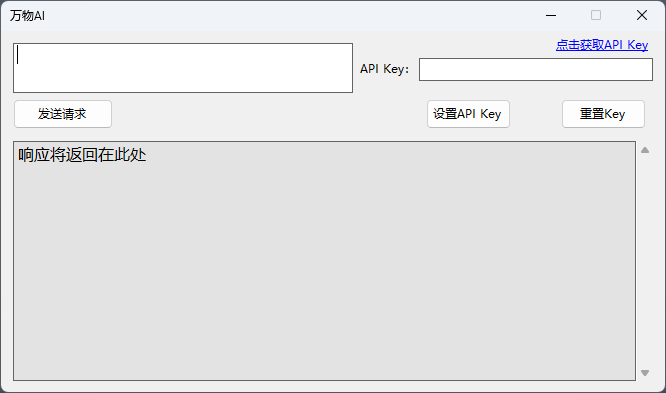
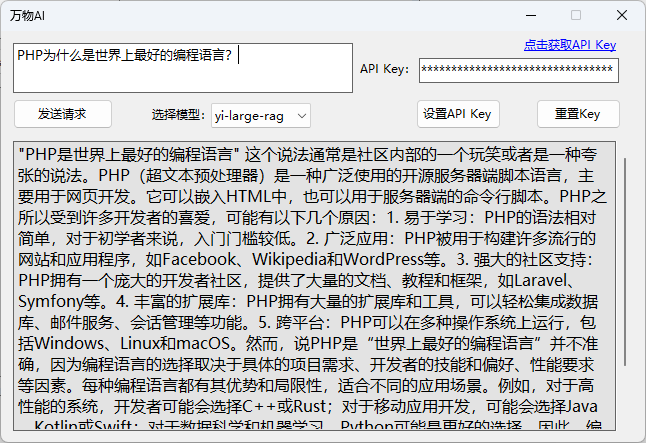
更新了模型选择功能

diff --git a/Wanwu/Form1.Designer.cs b/Wanwu/Form1.Designer.cs
@@ -21,11 +21,13 @@
             this.btnSendRequest = new System.Windows.Forms.Button();
             this.txtShow = new System.Windows.Forms.TextBox();
             this.txtAPIKey = new System.Windows.Forms.TextBox();
-            this.APITitle = new System.Windows.Forms.TextBox();
+            this.APIText = new System.Windows.Forms.TextBox();
             this.btnSettings = new System.Windows.Forms.Button();
             this.btnReset = new System.Windows.Forms.Button();
             this.APIKeylink = new System.Windows.Forms.LinkLabel();
             this.btnCopy = new System.Windows.Forms.Button();
+            this.ModelText = new System.Windows.Forms.TextBox();
+            this.comboModel = new System.Windows.Forms.ComboBox();
             this.SuspendLayout();
             // 
             // txtInput
@@ -60,7 +62,7 @@
             this.txtShow.Name = "txtShow";
             this.txtShow.ReadOnly = true;
             this.txtShow.ScrollBars = System.Windows.Forms.ScrollBars.Vertical;
-            this.txtShow.Size = new System.Drawing.Size(640, 240);
+            this.txtShow.Size = new System.Drawing.Size(620, 290);
             this.txtShow.TabIndex = 2;
             this.txtShow.TabStop = false;
             this.txtShow.Text = "响应将返回在此处";
@@ -68,29 +70,30 @@
             // txtAPIKey
             // 
             this.txtAPIKey.BorderStyle = System.Windows.Forms.BorderStyle.FixedSingle;
-            this.txtAPIKey.Font = new System.Drawing.Font("微软雅黑", 9F, System.Drawing.FontStyle.Regular, System.Drawing.GraphicsUnit.Point, ((byte)(134)));
+            this.txtAPIKey.Font = new System.Drawing.Font("微软雅黑", 10F);
             this.txtAPIKey.Location = new System.Drawing.Point(418, 27);
             this.txtAPIKey.Name = "txtAPIKey";
-            this.txtAPIKey.Size = new System.Drawing.Size(234, 23);
+            this.txtAPIKey.PasswordChar = '*';
+            this.txtAPIKey.Size = new System.Drawing.Size(200, 25);
             this.txtAPIKey.TabIndex = 3;
             // 
-            // APITitle
+            // APIText
             // 
-            this.APITitle.BorderStyle = System.Windows.Forms.BorderStyle.None;
-            this.APITitle.Cursor = System.Windows.Forms.Cursors.IBeam;
-            this.APITitle.Font = new System.Drawing.Font("微软雅黑", 9F, System.Drawing.FontStyle.Regular, System.Drawing.GraphicsUnit.Point, ((byte)(134)));
-            this.APITitle.Location = new System.Drawing.Point(359, 29);
-            this.APITitle.Name = "APITitle";
-            this.APITitle.ReadOnly = true;
-            this.APITitle.Size = new System.Drawing.Size(53, 16);
-            this.APITitle.TabIndex = 4;
-            this.APITitle.TabStop = false;
-            this.APITitle.Text = "API Key：";
+            this.APIText.BorderStyle = System.Windows.Forms.BorderStyle.None;
+            this.APIText.Cursor = System.Windows.Forms.Cursors.IBeam;
+            this.APIText.Font = new System.Drawing.Font("微软雅黑", 9F, System.Drawing.FontStyle.Regular, System.Drawing.GraphicsUnit.Point, ((byte)(134)));
+            this.APIText.Location = new System.Drawing.Point(359, 29);
+            this.APIText.Name = "APIText";
+            this.APIText.ReadOnly = true;
+            this.APIText.Size = new System.Drawing.Size(53, 16);
+            this.APIText.TabIndex = 4;
+            this.APIText.TabStop = false;
+            this.APIText.Text = "API Key：";
             // 
             // btnSettings
             // 
             this.btnSettings.Font = new System.Drawing.Font("微软雅黑", 9F, System.Drawing.FontStyle.Regular, System.Drawing.GraphicsUnit.Point, ((byte)(134)));
-            this.btnSettings.Location = new System.Drawing.Point(425, 68);
+            this.btnSettings.Location = new System.Drawing.Point(415, 68);
             this.btnSettings.Name = "btnSettings";
             this.btnSettings.Size = new System.Drawing.Size(85, 30);
             this.btnSettings.TabIndex = 5;
@@ -101,7 +104,7 @@
             // btnReset
             // 
             this.btnReset.Font = new System.Drawing.Font("微软雅黑", 9F, System.Drawing.FontStyle.Regular, System.Drawing.GraphicsUnit.Point, ((byte)(134)));
-            this.btnReset.Location = new System.Drawing.Point(560, 68);
+            this.btnReset.Location = new System.Drawing.Point(535, 68);
             this.btnReset.Name = "btnReset";
             this.btnReset.Size = new System.Drawing.Size(85, 30);
             this.btnReset.TabIndex = 6;
@@ -113,7 +116,7 @@
             // 
             this.APIKeylink.AutoSize = true;
             this.APIKeylink.Font = new System.Drawing.Font("微软雅黑", 9F, System.Drawing.FontStyle.Regular, System.Drawing.GraphicsUnit.Point, ((byte)(134)));
-            this.APIKeylink.Location = new System.Drawing.Point(552, 5);
+            this.APIKeylink.Location = new System.Drawing.Point(520, 5);
             this.APIKeylink.Name = "APIKeylink";
             this.APIKeylink.Size = new System.Drawing.Size(100, 17);
             this.APIKeylink.TabIndex = 7;
@@ -130,7 +133,7 @@
             this.btnCopy.FlatStyle = System.Windows.Forms.FlatStyle.Flat;
             this.btnCopy.Font = new System.Drawing.Font("微软雅黑", 20F);
             this.btnCopy.ForeColor = System.Drawing.Color.Black;
-            this.btnCopy.Location = new System.Drawing.Point(600, 112);
+            this.btnCopy.Location = new System.Drawing.Point(580, 112);
             this.btnCopy.Name = "btnCopy";
             this.btnCopy.Size = new System.Drawing.Size(32, 32);
             this.btnCopy.TabIndex = 8;
@@ -139,14 +142,45 @@
             this.btnCopy.Visible = false;
             this.btnCopy.Click += new System.EventHandler(this.btnCopy_Click);
             // 
+            // ModelText
+            // 
+            this.ModelText.BorderStyle = System.Windows.Forms.BorderStyle.None;
+            this.ModelText.Cursor = System.Windows.Forms.Cursors.IBeam;
+            this.ModelText.Font = new System.Drawing.Font("微软雅黑", 9F, System.Drawing.FontStyle.Regular, System.Drawing.GraphicsUnit.Point, ((byte)(134)));
+            this.ModelText.Location = new System.Drawing.Point(151, 75);
+            this.ModelText.Name = "ModelText";
+            this.ModelText.ReadOnly = true;
+            this.ModelText.Size = new System.Drawing.Size(53, 16);
+            this.ModelText.TabIndex = 9;
+            this.ModelText.TabStop = false;
+            this.ModelText.Text = "选择模型：";
+            // 
+            // comboModel
+            // 
+            this.comboModel.DropDownStyle = System.Windows.Forms.ComboBoxStyle.DropDownList;
+            this.comboModel.Font = new System.Drawing.Font("微软雅黑", 9F, System.Drawing.FontStyle.Regular, System.Drawing.GraphicsUnit.Point, ((byte)(134)));
+            this.comboModel.FormattingEnabled = true;
+            this.comboModel.Items.AddRange(new object[] {
+            "yi-large",
+            "yi-large-rag"});
+            this.comboModel.Location = new System.Drawing.Point(210, 72);
+            this.comboModel.Name = "comboModel";
+            this.comboModel.Size = new System.Drawing.Size(100, 25);
+            this.comboModel.TabIndex = 10;
+            this.comboModel.TabStop = false;
+            this.comboModel.SelectedIndex = 0;
+            this.comboModel.SelectedIndexChanged += new System.EventHandler(this.comboModle_SelectedIndexChanged);
+            // 
             // Form1
             // 
-            this.ClientSize = new System.Drawing.Size(664, 361);
+            this.ClientSize = new System.Drawing.Size(644, 411);
+            this.Controls.Add(this.comboModel);
+            this.Controls.Add(this.ModelText);
             this.Controls.Add(this.btnCopy);
             this.Controls.Add(this.APIKeylink);
             this.Controls.Add(this.btnReset);
             this.Controls.Add(this.btnSettings);
-            this.Controls.Add(this.APITitle);
+            this.Controls.Add(this.APIText);
             this.Controls.Add(this.txtAPIKey);
             this.Controls.Add(this.txtShow);
             this.Controls.Add(this.btnSendRequest);
@@ -164,10 +198,12 @@
 
         private System.Windows.Forms.TextBox txtShow;
         private System.Windows.Forms.TextBox txtAPIKey;
-        private System.Windows.Forms.TextBox APITitle;
+        private System.Windows.Forms.TextBox APIText;
         private System.Windows.Forms.Button btnSettings;
         private System.Windows.Forms.Button btnReset;
         private System.Windows.Forms.LinkLabel APIKeylink;
         private System.Windows.Forms.Button btnCopy;
+        private System.Windows.Forms.TextBox ModelText;
+        private System.Windows.Forms.ComboBox comboModel;
     }
 }

diff --git a/Wanwu/Form1.cs b/Wanwu/Form1.cs
@@ -12,6 +12,7 @@ using System.Drawing;
 using System.Collections.Generic;
 using Newtonsoft.Json;
 
+
 namespace WindowsFormsApp
 {
     public partial class Form1 : Form
@@ -19,6 +20,7 @@ namespace WindowsFormsApp
         //API URL
         private static readonly string apiUrl = "https://api.lingyiwanwu.com/v1/chat/completions";
         private static string apiKey = "";
+        private static string usedModel = "yi-large";
 
         //消息列表
         private static List<Dictionary<string, string>> messageHistory = new List<Dictionary<string, string>>();
@@ -102,6 +104,7 @@ namespace WindowsFormsApp
             btnSendRequest.Enabled = false;
             btnSettings.Enabled = false;
             btnReset.Enabled = false;
+            comboModel.Enabled = false;
             txtShow.Text = "";
             if (apiKey != "")
             {
@@ -127,6 +130,7 @@ namespace WindowsFormsApp
             btnSendRequest.Enabled = true;
             btnSettings.Enabled = true;
             btnReset.Enabled = true;
+            comboModel.Enabled = true;
         }
 
         //发送请求的方法
@@ -154,7 +158,7 @@ namespace WindowsFormsApp
                 // 构建请求体
                 var jsonData = new
                 {
-                    model = "yi-large",
+                    model = usedModel,
                     messages = messageHistory,
                     temperature = 0.3
                 };
@@ -176,6 +180,21 @@ namespace WindowsFormsApp
                     JObject responseObject = JObject.Parse(responseContent);
                     //访问嵌套字段
                     var messageContent = responseObject?["choices"]?.FirstOrDefault()?["message"]?["content"]?.ToString();
+                    // 提取引用资料的 URL 和标题
+                    var quoteItems = responseObject?["choices"]?.FirstOrDefault()?["quote"]?.ToObject<List<JObject>>();
+
+                    if (quoteItems != null && quoteItems.Any())
+                    {
+                        int num = 0;
+                        messageContent += Environment.NewLine + "参考资料：";
+                        foreach (var quote in quoteItems)
+                        {
+                            num++;
+                            string url = quote["url"]?.ToString();
+                            string title = quote["title"]?.ToString();
+                            messageContent += Environment.NewLine + (num) + ". " + "[" + title + "]" + "(" + url + ")";
+                        }
+                    }
                     if (messageContent != null)
                     {
                         Dictionary<string, string> mesAssistant = new Dictionary<string, string>
@@ -185,6 +204,7 @@ namespace WindowsFormsApp
                     };
                         messageHistory.Add(mesAssistant);
                         return messageContent;
+                        
                     }
                     else
                     {
@@ -193,7 +213,6 @@ namespace WindowsFormsApp
                 }
                 catch (Exception ex)
                 {
-                    Console.WriteLine("Error: " + ex.Message);
                     return "Error: " + ex.Message;
                 }
             }
@@ -240,6 +259,16 @@ namespace WindowsFormsApp
         {
             //将展示框的内容复制到剪贴板
             Clipboard.SetText(txtShow.Text);
+        }
+
+        private void comboModle_SelectedIndexChanged(object sender, EventArgs e)
+        {
+            usedModel = comboModel.Text;
+            if (messageHistory.Any())
+            {
+                messageHistory.Clear();
+            }
+            txtShow.Text = "更换模型成功，当前模型：" + usedModel;
         }
     }
 }
